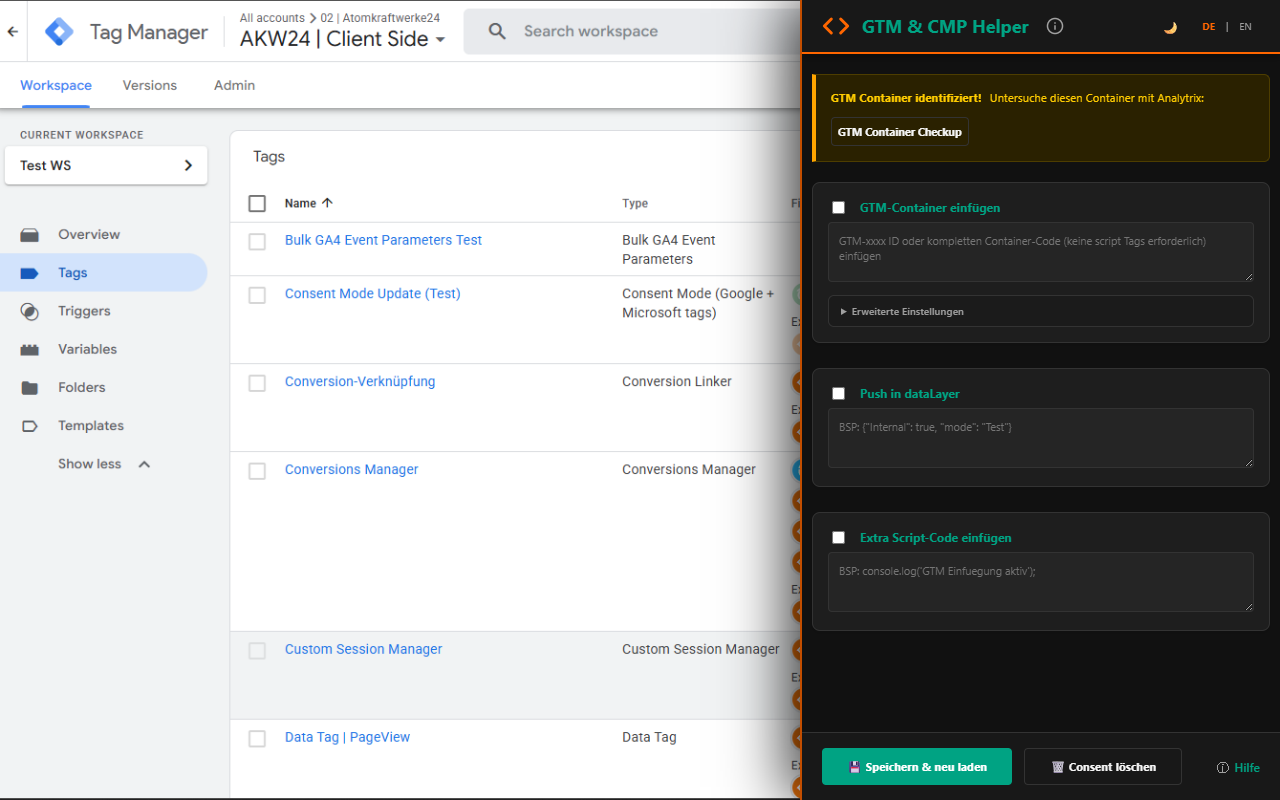
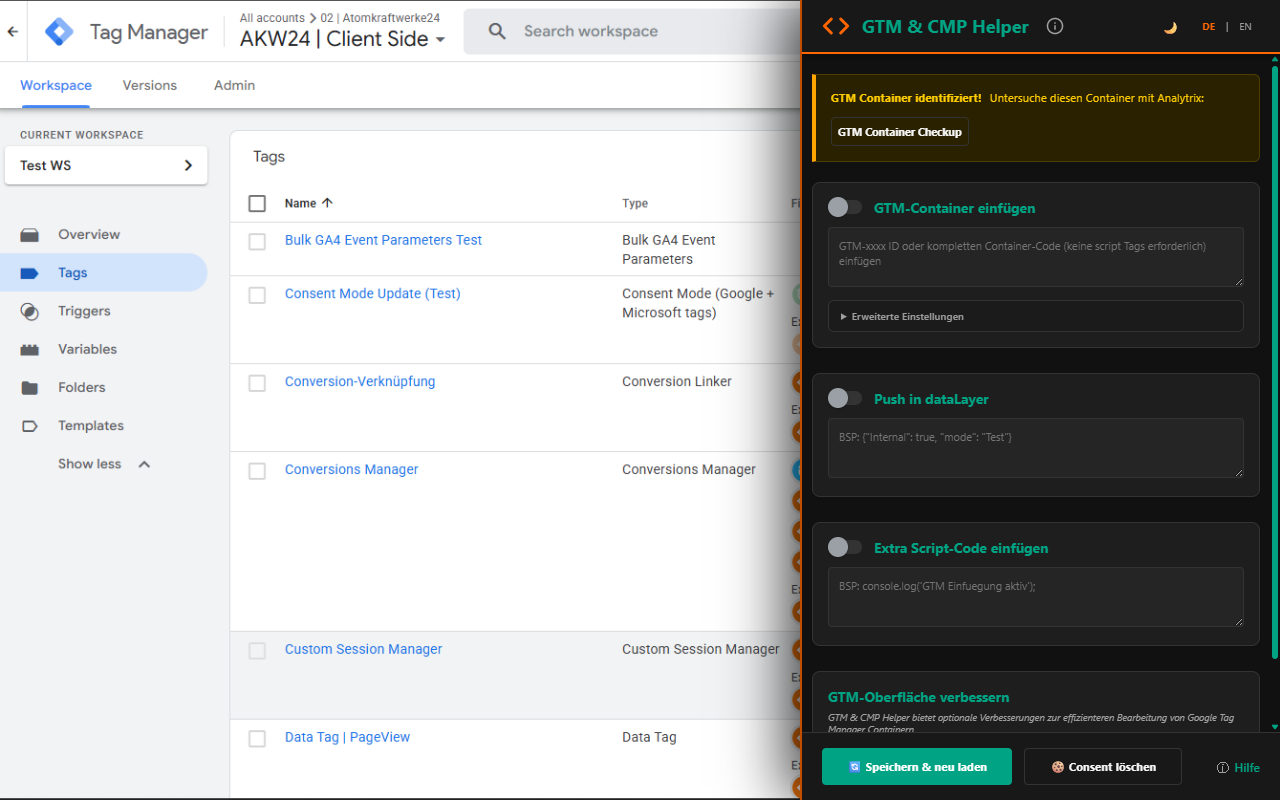
chore(webstore): Store-Assets und Beschreibung auf 3.6
Screenshots und Promo-Kacheln neu gerendert - die vier bestehenden Motive
zeigen jetzt die Schalter statt der Kaestchen. Neu ist store-5-gtm-ui-options:
GTM-Oberflaeche im Hintergrund, rechts das Popup mit der aufgeklappten Karte
und allen sechs Schaltern. Das Skript hatte dafuer noch kein Motiv; da beim
Screenshot-Lauf kein GTM-Tab aktiv ist, zeichnet es den entsperrten Zustand
direkt.

description.txt: Abschnitt 6 in beiden Sprachen um die Variablen-Chips und die
Abschaltbarkeit ergaenzt, dazu ein Changelog-Eintrag v3.6. Ausserdem die
Backticks aus einem frueheren README-Copy-Paste entfernt - der Store zeigt sie
als Zeichen an, Markdown kann er nicht.

diff --git a/scripts/generate-store-screenshots.js b/scripts/generate-store-screenshots.js
@@ -158,6 +158,16 @@ async function generateStoreScreenshots() {
         window.paintGtmDetections();
       }, recs)
     },
+    {
+      // Die Karte ist nur bedienbar, wenn ein GTM-Tab aktiv ist – hier gibt es
+      // keinen, deshalb wird der entsperrte Zustand direkt gezeichnet.
+      name: 'gtm-ui-options', bg: 'gtmpage.png',
+      afterOpen: async (p) => p.evaluate(() => {
+        window.paintGtmUiCard({ enabled: true, features: {} }, true);
+        const karte = document.getElementById('gtmui_section');
+        if (karte) karte.scrollIntoView({ block: 'end' });
+      })
+    },
   ];
 
   for (let i = 0; i < scenarios.length; i++) {
